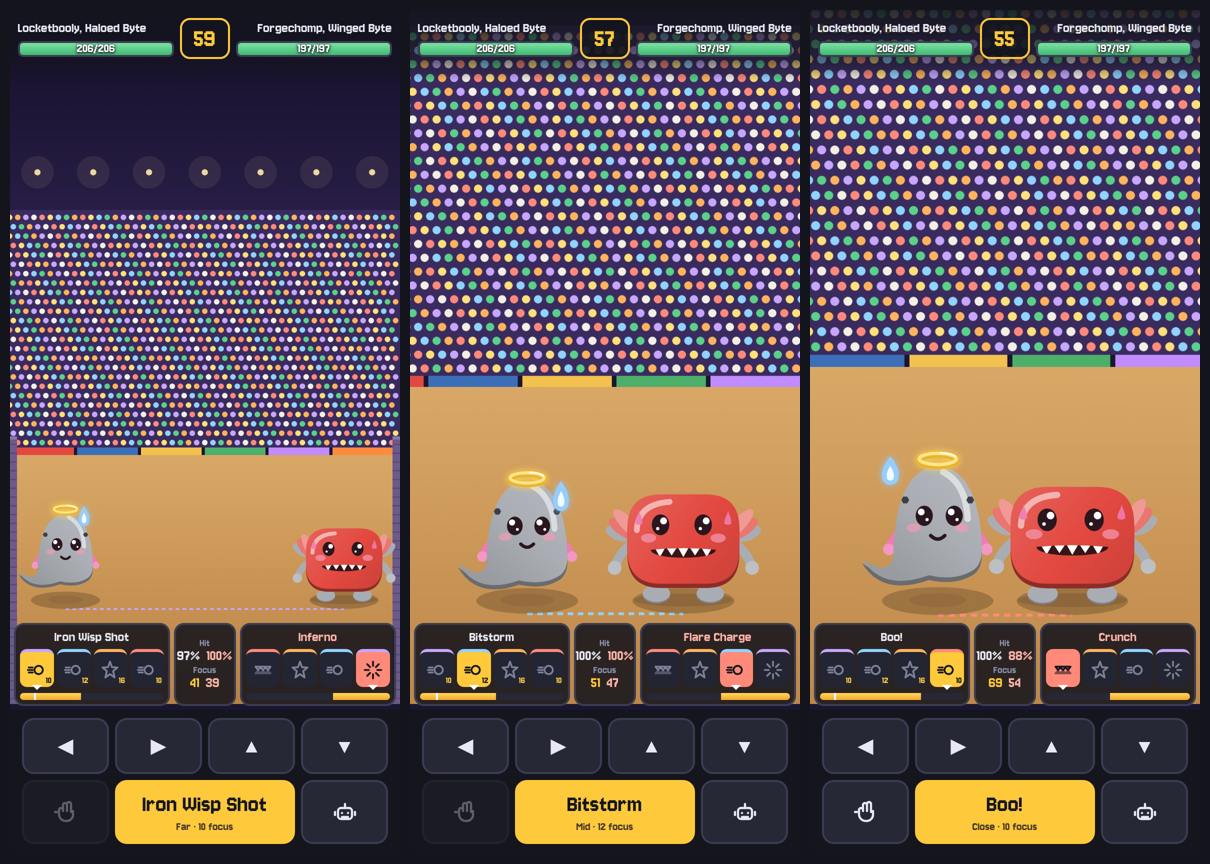
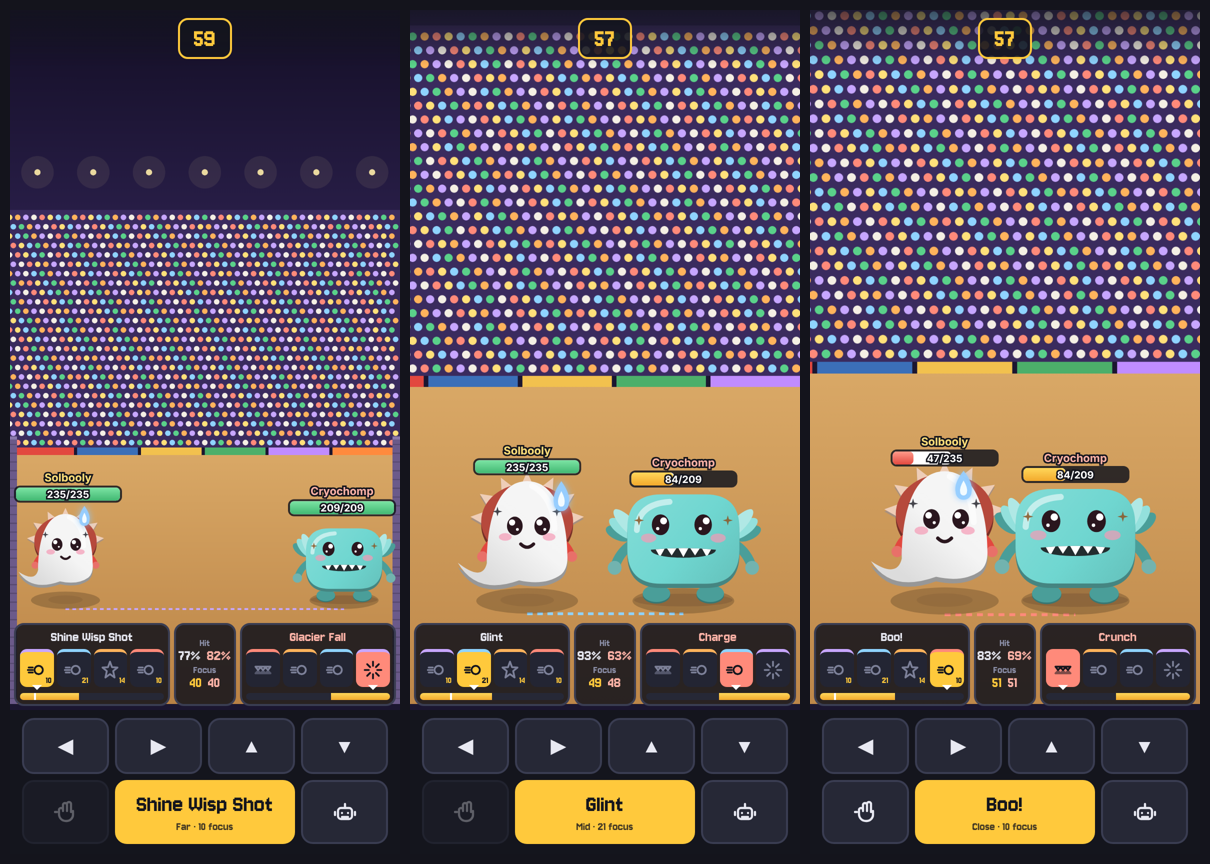
Fight screen: name and HP bar over each Snabit's head, clock alone at the top; captured body points converted to arena units for the zoom
Claude-Session: https://claude.ai/code/session_01MQWzxUjVm8ojsjAXsvRGrb

diff --git a/prototype/arena-ui.js b/prototype/arena-ui.js
@@ -15,8 +15,8 @@ function atStyle(){
 #atest .go{height:54px;width:100%;font-size:17px;background:#ffc93c;color:#14151d;border-color:#ffc93c;margin-top:6px}
 #atest .scr{position:relative;flex:1 1 auto;min-height:260px;padding-top:var(--safe-t,0px);background:#1b1630;overflow:hidden}
 #atest .scr canvas{position:absolute;left:0;right:0;top:var(--safe-t,0px);width:100%;display:block}
-#atest .scr::after{content:"";position:absolute;left:0;right:0;top:0;height:calc(var(--safe-t,0px) + 72px);background:linear-gradient(rgba(20,21,29,.9),rgba(20,21,29,.55) 70%,transparent);pointer-events:none}
-#atest .htop{position:absolute;z-index:1;left:8px;right:8px;top:calc(var(--safe-t,0px) + 8px);display:grid;grid-template-columns:1fr 50px 1fr;gap:6px;align-items:center;pointer-events:none}
+#atest .scr::after{content:"";position:absolute;left:0;right:0;top:0;height:calc(var(--safe-t,0px) + 56px);background:linear-gradient(rgba(20,21,29,.7),transparent);pointer-events:none}
+#atest .htop{position:absolute;z-index:1;left:50%;width:54px;margin-left:-27px;top:calc(var(--safe-t,0px) + 8px);pointer-events:none}
 #atest .hb .nm{font-size:12px;font-weight:700;white-space:nowrap;overflow:hidden;text-overflow:ellipsis;text-shadow:0 1px 2px #14151d}#atest .hb.r{text-align:right}
 #atest .hpb{height:16px;border-radius:5px;background:rgba(20,21,29,.85);border:2px solid #3a3d52;margin-top:3px;position:relative;overflow:hidden}
 #atest .hpb i{position:absolute;top:0;bottom:0;left:0;background:linear-gradient(#7be3a3,#41b872)}#atest .r .hpb i{left:auto;right:0}
@@ -103,9 +103,7 @@ function atStart(meFam,foeFam){   // picks: see atMake
   // Your Snabit always stands on the left, so ◀ backs off and ▶ closes in; after a swap the arena turns round to keep it so.
   const cells=side=>(side?AR.BANDS:AR.BANDS.slice().reverse()).map(b=>`<div class="sc${side?" foe":""}" style="--rc:${AT_RC[b]}" id="at-${side?"f":"y"}-${b}"></div>`).join("");
   d.innerHTML=`<div class="scr"><canvas id="at-cv"></canvas>
-      <div class="htop"><div class="hb"><div class="nm">${A.f.name}</div><div class="hpb"><i id="at-hp0"></i><b id="at-l0"></b></div></div>
-        <div class="clock2" id="at-clock">60</div>
-        <div class="hb r"><div class="nm">${B.f.name}</div><div class="hpb"><i id="at-hp1"></i><b id="at-l1"></b></div></div></div>
+      <div class="htop"><div class="clock2" id="at-clock">60</div></div>
       <div class="hbot" id="at-hbot"><div class="side me"><div class="mv" id="at-mv0"></div><div class="strip">${cells(0)}</div><div class="fob" id="at-fb0"><i id="at-fo0"></i><span class="need" id="at-need"></span></div></div>
         <div class="mid"><div><span>Hit</span><b><i id="at-hit0"></i><em id="at-hit1"></em></b></div><div><span>Focus</span><b><i id="at-fn0"></i><em id="at-fn1"></em></b></div></div>
         <div class="side foe"><div class="mv" id="at-mv1"></div><div class="strip">${cells(1)}</div><div class="fob"><i id="at-fo1"></i></div></div></div></div>
@@ -262,6 +260,7 @@ function atDraw(now,dte){
   c.setTransform(dpr,0,0,dpr,0,0); c.clearRect(0,0,W,H);
   if(flipK){ const k=Math.max(0.04,Math.abs(Math.cos(Math.PI*flipK))); c.translate(W/2,0); c.scale(k,1); c.translate(-W/2,0); }   // the turn-around
   c.translate(sx,AT.floorS+sy); c.scale(z,z); c.translate(-AT.cam,-FY); c.drawImage(AT.bg,0,0,WW,HH);
+  const toWorld=c.getTransform().inverse();   // the drawing records its eyes, hands and head in canvas pixels; this turns them back into arena units
   // the gap between them on the floor
   { const a=Math.min(AT.side[0].dx,AT.side[1].dx), b=Math.max(AT.side[0].dx,AT.side[1].dx), y=floor+16, band=arBand(ar.gap());
     c.strokeStyle=AT_RC[band]; c.lineWidth=3; c.setLineDash([6,5]); c.beginPath(); c.moveTo(a,y); c.lineTo(b,y); c.stroke(); c.setLineDash([]);
@@ -284,7 +283,7 @@ function atDraw(now,dte){
     c.save(); c.globalAlpha=st.alpha; if(st.flash===2) c.filter="brightness(0) invert(1)"; else if(st.flash===1) c.filter="brightness(1.5)"; else if(st.flash===3) c.filter="brightness(1.18)";
     c.translate(x,y); c.rotate(st.rot); c.scale(mir*u*st.sx,u*st.sy); c.translate(-100,-188);
     CHIBI.draw(c,{...sp,capture:(S.cap={})},P,te,[0.6*S.dir*mir,0]); c.restore();
-    const cp=S.cap||{}, d=q=>q?{x:q.x/dpr,y:q.y/dpr}:null;
+    const cp=S.cap||{}, d=q=>q?toWorld.transformPoint(q):null;
     placed[i]={x,y:y-h*u*0.45,foot:y,lift:st.lift,back:false,r:CHIBI.width(sp.stage,sp.family)*u*0.55,eyes:cp.eyes&&cp.eyes.map(d),mouth:d(cp.mouth),hands:(cp.hands||[]).map(d),top:d(cp.top)||{x,y:y-50},center:d(cp.center)};
   });
   // the game's own attack effects, from the attacker's eyes, mouth or hands to the target
@@ -298,14 +297,26 @@ function atDraw(now,dte){
   // damage numbers and words over the head
   AT.fx=AT.fx.filter(f=>now-f.t0<900); c.textAlign="center"; for(const f of AT.fx){ if(now<f.t0) continue; const k=(now-f.t0)/900, p=placed[f.i]; if(!p) continue;
     c.font=`700 ${Math.round((f.crit?19:15)/z)}px system-ui`; c.globalAlpha=1-k*k; c.lineWidth=4; c.strokeStyle="#14151d"; c.fillStyle=f.buff?"#8fd3ff":f.crit?"#ffc93c":"#ffffff";
-    const y=p.top.y-14-k*26; c.strokeText(f.txt,p.x,y); c.fillText(f.txt,p.x,y); c.globalAlpha=1; }
+    const y=p.top.y-(52+k*26)/z; c.strokeText(f.txt,p.x,y); c.fillText(f.txt,p.x,y); c.globalAlpha=1; }
+  // name and HP over each head, so your eyes stay on the fight; the white part is the damage just taken, draining after a moment
+  c.setTransform(dpr,0,0,dpr,0,0);
+  if(!flipK) [0,1].forEach(i=>{ const P=placed[i], p=ar.p[i], S=AT.side[i]; if(!P) return;
+    const f=p.hp/p.maxhp; S.hpLag=S.hpLag==null?f:f>S.hpLag?f:S.hpLag+(f-S.hpLag)*(1-Math.exp(-Math.max(0,dte)/380));
+    const bw=104, bh=13, x=Math.max(6,Math.min(W-bw-6,(P.x-AT.cam)*z+sx-bw/2)), y=Math.max(52,(P.top.y-FY)*z+AT.floorS+sy-38);
+    c.fillStyle="rgba(20,21,29,.85)"; c.beginPath(); c.roundRect(x-2,y-2,bw+4,bh+4,6); c.fill();
+    c.fillStyle="#fff"; c.beginPath(); c.roundRect(x,y,bw*S.hpLag,bh,4); c.fill();
+    const g=c.createLinearGradient(0,y,0,y+bh), col=f>0.5?["#7be3a3","#41b872"]:f>0.25?["#ffd75a","#f2a92c"]:["#ff9a8a","#e2483f"]; g.addColorStop(0,col[0]); g.addColorStop(1,col[1]);
+    c.fillStyle=g; c.beginPath(); c.roundRect(x,y,Math.max(0,bw*f),bh,4); c.fill();
+    c.font="700 10px system-ui"; c.textAlign="center"; c.lineWidth=3; c.strokeStyle="#14151d"; c.fillStyle="#fff";
+    c.strokeText(`${p.hp}/${p.maxhp}`,x+bw/2,y+bh-2.5); c.fillText(`${p.hp}/${p.maxhp}`,x+bw/2,y+bh-2.5);
+    const nm=p.f.name.split(",")[0]; c.font="700 11px system-ui"; c.fillStyle=i?"#ffb4a8":"#ffe07a"; c.strokeText(nm,x+bw/2,y-6); c.fillText(nm,x+bw/2,y-6); });
 }
 
 function atHud(){
   const ar=AT.ar, g=ar.gap(), m=AT.lists[ar.band()][AT.idx[ar.band()]]||{cost:0,range:"Any"};
   const fm=AT.foeBest[ar.band()], pc=(p,mv)=>mv&&mv.acc?Math.round(100*ar.hitChance(p,mv))+"%":"-";
-  ar.p.forEach((p,i)=>{ document.getElementById("at-hp"+i).style.width=(100*p.hp/p.maxhp)+"%"; document.getElementById("at-fo"+i).style.width=(100*p.focus/99)+"%";
-    document.getElementById("at-l"+i).textContent=`${p.hp}/${p.maxhp}`; document.getElementById("at-fn"+i).textContent=Math.floor(p.focus); });
+  ar.p.forEach((p,i)=>{ document.getElementById("at-fo"+i).style.width=(100*p.focus/99)+"%";
+    document.getElementById("at-fn"+i).textContent=Math.floor(p.focus); });
   document.getElementById("at-hit0").textContent=pc(ar.p[0],m.name?m:null); document.getElementById("at-hit1").textContent=pc(ar.p[1],fm);
   document.getElementById("at-fn0").classList.toggle("ok",ar.p[0].focus>=m.cost);
   // a white line on your focus bar shows what the selected move costs, and the bar lights up once you can afford it

diff --git a/docs/art/HANDOUT.md b/docs/art/HANDOUT.md
@@ -199,7 +199,7 @@ Gid caught AI slop in the storyboard lines on 12 Nov 2026 because the skills wer
 
 ## Next
 
-- **The new arena (in progress, 14 Nov 2026).** Gid approved a real-time arena: a line between two walls, the Snabits facing the camera and looking at each other, four range bands (Close, Near, Mid, Far), focus that fills over time, Shove at Close, swap moves, push and pull, and a scrolling move list in place of the 4-slot loadout. The plan and every family's moveset are in the doc https://claude.ai/artifact/D3krLg77oc8unWRzAbfRLC, the mockup is `docs/art/arena-mockup.png`, and the engine is `prototype/arena.js` (not loaded by the game yet). Stamina fills focus, Mind adds Wither strength, Insight resists Wither. Gid approved the doc on 14 Nov 2026: 60-second fights, a free Shove with a 1.5 second wait, the move names, a walking speed per family (`FAM_WALK`), each family's first move taking its element (`EL_PREFIX`), and every element skill kept. The test arena is `prototype/arena-ui.js`, opened from Practice battle on the title screen or with `#arena` at the end of the address. The fight screen (14 Nov 2026) has the arena on top, 1.7 screens wide with a camera that follows both Snabits. Since 14 Nov 2026 the range cells sit on the fight screen the MR2 way: your four cells top left read Far, Mid, Near, Close toward the middle, the opponent's four top right read Close, Near, Mid, Far outward, and the pair for the range you're both in lights up. Your Snabit always stands on the left, so ◀ always backs off and ▶ always closes in (`wantRel` in the engine). After a swap the arena does a 0.36 second turn-around flip so you land back on the left. Later the same day the layout moved fully onto the fight screen like MR2's: names, HP and the clock across the top, and at the bottom of the fight each side's current move name over its row of four range icons, with Hit % and Focus for both sides in a box between them (`hitChance` in the engine). The camera zooms with the gap, pulled back to show both walls when they're far apart and close in when they're face to face (`docs/art/arena-zoom.png` shows Far, Mid and Close). Under the fight are ◀ ▶ ▲ ▼ on one row and Shove, a big Attack button and Auto on the next. ▲ ▼ change the move for the range you're standing in, and Attack shows that move's name, range and focus cost, going grey with a red edge when focus is short. Practice can use a ranch Snabit as it is (the opponent matches its level and grade), a fresh scan trained to level 30 (the scan card shows Practice with it), or a family preset at level 30. Moves are turns, the MR2 way (14 Nov 2026): whoever acts first goes, the fight and the clock stop while the move plays its full animation from the battle's `ANIM`, then both carry on. The computer takes 0.35 to 0.7 seconds to react, and a Snabit waits 0.6 seconds after its own move before it can act again. In the second balance run families won 39% to 65%. Next: Gid plays the test arena, tune from his feedback, then the full switch (re-aim the attack animations, cups, wild fights and Auto on the new engine).
+- **The new arena (in progress, 14 Nov 2026).** Gid approved a real-time arena: a line between two walls, the Snabits facing the camera and looking at each other, four range bands (Close, Near, Mid, Far), focus that fills over time, Shove at Close, swap moves, push and pull, and a scrolling move list in place of the 4-slot loadout. The plan and every family's moveset are in the doc https://claude.ai/artifact/D3krLg77oc8unWRzAbfRLC, the mockup is `docs/art/arena-mockup.png`, and the engine is `prototype/arena.js` (not loaded by the game yet). Stamina fills focus, Mind adds Wither strength, Insight resists Wither. Gid approved the doc on 14 Nov 2026: 60-second fights, a free Shove with a 1.5 second wait, the move names, a walking speed per family (`FAM_WALK`), each family's first move taking its element (`EL_PREFIX`), and every element skill kept. The test arena is `prototype/arena-ui.js`, opened from Practice battle on the title screen or with `#arena` at the end of the address. The fight screen (14 Nov 2026) has the arena on top, 1.7 screens wide with a camera that follows both Snabits. Since 14 Nov 2026 the range cells sit on the fight screen the MR2 way: your four cells top left read Far, Mid, Near, Close toward the middle, the opponent's four top right read Close, Near, Mid, Far outward, and the pair for the range you're both in lights up. Your Snabit always stands on the left, so ◀ always backs off and ▶ always closes in (`wantRel` in the engine). After a swap the arena does a 0.36 second turn-around flip so you land back on the left. Later the same day the layout moved fully onto the fight screen like MR2's: the clock at the top, each Snabit's name and HP bar over its head (a white strip shows the damage just taken and drains after a moment), and at the bottom of the fight each side's current move name over its row of four range icons, with Hit % and Focus for both sides in a box between them (`hitChance` in the engine). The camera zooms with the gap, pulled back to show both walls when they're far apart and close in when they're face to face (`docs/art/arena-zoom.png` shows Far, Mid and Close). Under the fight are ◀ ▶ ▲ ▼ on one row and Shove, a big Attack button and Auto on the next. ▲ ▼ change the move for the range you're standing in, and Attack shows that move's name, range and focus cost, going grey with a red edge when focus is short. Practice can use a ranch Snabit as it is (the opponent matches its level and grade), a fresh scan trained to level 30 (the scan card shows Practice with it), or a family preset at level 30. Moves are turns, the MR2 way (14 Nov 2026): whoever acts first goes, the fight and the clock stop while the move plays its full animation from the battle's `ANIM`, then both carry on. The computer takes 0.35 to 0.7 seconds to react, and a Snabit waits 0.6 seconds after its own move before it can act again. In the second balance run families won 39% to 65%. Next: Gid plays the test arena, tune from his feedback, then the full switch (re-aim the attack animations, cups, wild fights and Auto on the new engine).
 - Computer opponents don't use signature skills yet.
 - An NPC who reveals a Snabit's growth ranks and lifespan for a fee.
 - Remove the gallery button from the Snaboscope.
